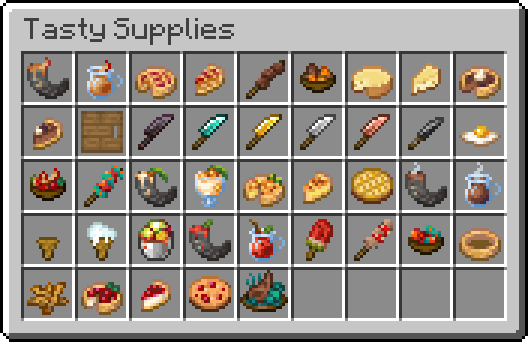
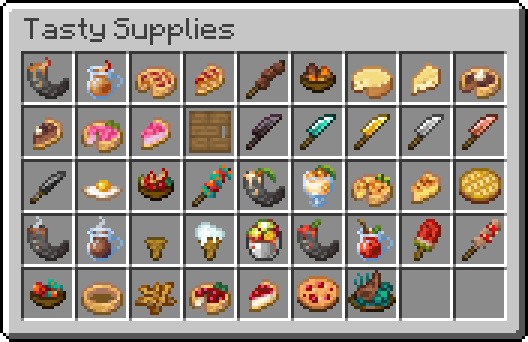
chore: Cherry Blossom Pie and Cherry Blossom Pie Slice

diff --git a/tasty_supplies/generator.py b/tasty_supplies/generator.py
@@ -98,6 +98,26 @@ def generate(ctx: TSContext):
 
     Item("chocolate_pie_slice", CuttingBoardRecipe("chocolate_pie")).register(ctx)
 
+    Item(
+        "cherry_blossom_pie",
+        ShapedRecipe(
+            key={
+                "C": "minecraft:cherry_leaves",
+                "M": "minecraft:milk_bucket",
+                "H": "minecraft:honeycomb",
+                "B": "minecraft:bread",
+            },
+            pattern=["CCC", "MMM", "HBH"],
+            result=FoodResult(
+                nutrition=8, saturation=6, effects=[Effect("slow_falling", 3600, 1)]
+            ),
+        ),
+    ).register(ctx)
+
+    Item("cherry_blossom_pie_slice", CuttingBoardRecipe("cherry_blossom_pie")).register(
+        ctx
+    )
+
     BlockItem(
         "cutting_board",
         ShapedRecipe(
@@ -578,7 +598,7 @@ def generate(ctx: TSContext):
     ).register(ctx)
 
     Item(
-        "pie_crust", ShapedRecipe(key={"W": "minecraft:wheat"}, pattern=["WWW"])
+        "pie_crust", ShapedRecipe(key={"W": "minecraft:wheat"}, pattern=["W W", " W "])
     ).register(ctx)
 
     Item("potato_fries", CuttingBoardRecipe("baked_potato")).register(ctx)
